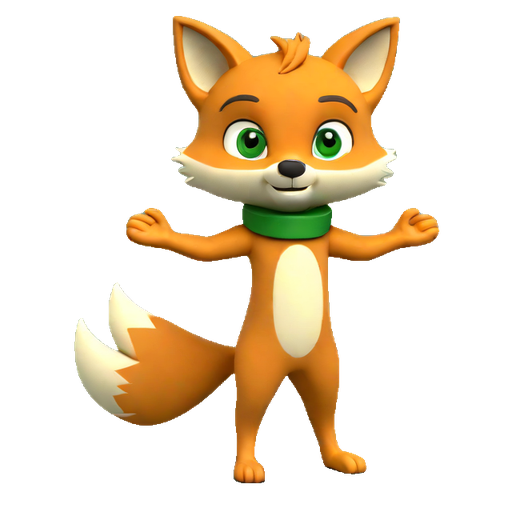
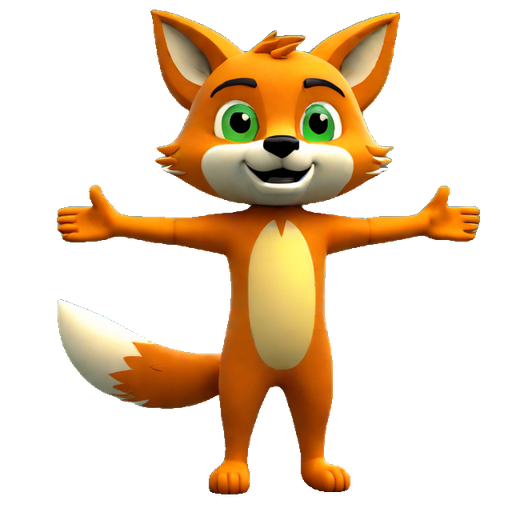
feat: ControlNet OpenPose forces the T-pose in local concepts
- make_pose.py draws a chibi T-pose OpenPose skeleton; generate_concept.py
  runs SDXL Turbo through StableDiffusionXLControlNetPipeline with
  xinsir/controlnet-openpose-sdxl-1.0 (pose-scale 0.8).
- New fox (seed 42) and panda (seed 43) concepts in real T-pose; contact
  sheets kept.

diff --git a/tools/ai3d/make_pose.py b/tools/ai3d/make_pose.py
@@ -1,0 +1,64 @@
+"""Disegna uno scheletro OpenPose (18 keypoint, colori standard) in T-pose
+con proporzioni chibi, da dare a ControlNet come immagine di controllo.
+
+Uso:  tools/ai3d/.venv/Scripts/python tools/ai3d/make_pose.py [--out tools/ai3d/poses/tpose_chibi.png] [--size 640]
+Nessun modello: solo PIL.
+"""
+import argparse
+from pathlib import Path
+
+from PIL import Image, ImageDraw
+
+# Ordine COCO/OpenPose 18: 0 naso, 1 collo, 2 spalla dx, 3 gomito dx, 4 polso dx,
+# 5 spalla sx, 6 gomito sx, 7 polso sx, 8 anca dx, 9 ginocchio dx, 10 caviglia dx,
+# 11 anca sx, 12 ginocchio sx, 13 caviglia sx, 14 occhio dx, 15 occhio sx,
+# 16 orecchio dx, 17 orecchio sx.  "dx" = destra del personaggio = sinistra immagine.
+LIMBS = [(1, 2), (1, 5), (2, 3), (3, 4), (5, 6), (6, 7), (1, 8), (8, 9), (9, 10), (1, 11),
+         (11, 12), (12, 13), (1, 0), (0, 14), (14, 16), (0, 15), (15, 17)]
+COLORS = [(255, 0, 0), (255, 85, 0), (255, 170, 0), (255, 255, 0), (170, 255, 0), (85, 255, 0),
+          (0, 255, 0), (0, 255, 85), (0, 255, 170), (0, 255, 255), (0, 170, 255), (0, 85, 255),
+          (0, 0, 255), (85, 0, 255), (170, 0, 255), (255, 0, 255), (255, 0, 170), (255, 0, 85)]
+
+
+def chibi_tpose(w: int, h: int) -> list:
+    cx = w * 0.5
+    # Testa grande: naso al 22%, collo al 40%, anche al 62%, caviglie al 92%.
+    nose = (cx, h * 0.24)
+    neck = (cx, h * 0.42)
+    sh = h * 0.44
+    arm = w * 0.14
+    hip_y = h * 0.62
+    hip_dx = w * 0.06
+    return [
+        nose, neck,
+        (cx - w * 0.09, sh), (cx - w * 0.09 - arm, sh), (cx - w * 0.09 - 2 * arm, sh),   # braccio dx (T)
+        (cx + w * 0.09, sh), (cx + w * 0.09 + arm, sh), (cx + w * 0.09 + 2 * arm, sh),   # braccio sx (T)
+        (cx - hip_dx, hip_y), (cx - hip_dx, h * 0.77), (cx - hip_dx, h * 0.92),
+        (cx + hip_dx, hip_y), (cx + hip_dx, h * 0.77), (cx + hip_dx, h * 0.92),
+        (cx - w * 0.04, h * 0.21), (cx + w * 0.04, h * 0.21),
+        (cx - w * 0.09, h * 0.23), (cx + w * 0.09, h * 0.23),
+    ]
+
+
+def main() -> None:
+    ap = argparse.ArgumentParser()
+    ap.add_argument("--out", default=str(Path(__file__).resolve().parent / "poses" / "tpose_chibi.png"))
+    ap.add_argument("--size", type=int, default=640)
+    args = ap.parse_args()
+    w = h = args.size
+    pts = chibi_tpose(w, h)
+    img = Image.new("RGB", (w, h), (0, 0, 0))
+    d = ImageDraw.Draw(img)
+    r = max(3, w // 90)
+    for i, (a, b) in enumerate(LIMBS):
+        d.line([pts[a], pts[b]], fill=COLORS[i], width=max(4, w // 60))
+    for i, p in enumerate(pts):
+        d.ellipse([p[0] - r, p[1] - r, p[0] + r, p[1] + r], fill=COLORS[i])
+    out = Path(args.out)
+    out.parent.mkdir(parents=True, exist_ok=True)
+    img.save(out)
+    print("pose ->", out)
+
+
+if __name__ == "__main__":
+    main()

diff --git a/tools/ai3d/generate_concept.py b/tools/ai3d/generate_concept.py
@@ -8,7 +8,9 @@ Uso:
       [--variants 4] [--seed 1] [--steps 4] [--ip-scale 0.55] [--guidance 0.0]
 
 Scrive in assets/characters/_source/<nome>/:
-  <nome>_concept_<seed>.png   una per variante (1024x1024, sfondo grigio)
+  <nome>_concept_<seed>.png   una per variante (sfondo grigio)
+La posa e' imposta da ControlNet OpenPose (`--pose`, scheletro T-pose chibi
+da make_pose.py); `--pose-scale` 0.6-1.0.
   README.md                   prompt e parametri usati
 Poi si sceglie la migliore e la si passa a generate_shape.py.
 
@@ -54,6 +56,9 @@ def main() -> int:
     ap.add_argument("--guidance", type=float, default=0.0)
     ap.add_argument("--ip-scale", type=float, default=0.35)
     ap.add_argument("--size", type=int, default=1024)
+    ap.add_argument("--pose", default=str(ROOT / "poses" / "tpose_chibi.png"),
+                    help="scheletro OpenPose per ControlNet (T-pose); '' = senza ControlNet")
+    ap.add_argument("--pose-scale", type=float, default=0.8)
     ap.add_argument("--out-root", default=str(PROJECT / "assets" / "characters" / "_source"))
     args = ap.parse_args()
 
@@ -65,8 +70,18 @@ def main() -> int:
 
     from diffusers import AutoPipelineForText2Image
     t0 = time.perf_counter()
-    pipe = AutoPipelineForText2Image.from_pretrained(
-        "stabilityai/sdxl-turbo", torch_dtype=dtype, variant="fp16", use_safetensors=True)
+    pose = None
+    if args.pose:
+        from diffusers import ControlNetModel, StableDiffusionXLControlNetPipeline
+        controlnet = ControlNetModel.from_pretrained(
+            "xinsir/controlnet-openpose-sdxl-1.0", torch_dtype=dtype, use_safetensors=True)
+        pipe = StableDiffusionXLControlNetPipeline.from_pretrained(
+            "stabilityai/sdxl-turbo", controlnet=controlnet, torch_dtype=dtype, variant="fp16",
+            use_safetensors=True)
+        pose = Image.open(args.pose).convert("RGB").resize((args.size, args.size), Image.NEAREST)
+    else:
+        pipe = AutoPipelineForText2Image.from_pretrained(
+            "stabilityai/sdxl-turbo", torch_dtype=dtype, variant="fp16", use_safetensors=True)
     style = None
     if args.style:
         from transformers import CLIPVisionModelWithProjection
@@ -94,6 +109,9 @@ def main() -> int:
                       guidance_scale=args.guidance, width=args.size, height=args.size, generator=gen)
         if style is not None:
             kwargs["ip_adapter_image"] = style
+        if pose is not None:
+            kwargs["image"] = pose
+            kwargs["controlnet_conditioning_scale"] = args.pose_scale
         image = pipe(**kwargs).images[0]
         path = out / ("%s_concept_%d.png" % (args.name, seed))
         image.save(path)

diff --git a/assets/characters/_source/panda/README.md b/assets/characters/_source/panda/README.md
@@ -1,15 +1,15 @@
 # panda — concept SDXL Turbo
 
-prompt: `cute cartoon panda mascot, black and white fur, round belly, big friendly eyes, black ear patches, arms spread wide open, one single character, full body T-pose, arms straight out to the sides, front view, symmetrical, chibi big round head, low-poly cartoon 3D render, flat colors, plain gray background`
+prompt: `cute cartoon panda mascot, black and white fur, round white belly, big friendly eyes, black ear patches, arms spread wide open, one single character, full body T-pose, arms straight out to the sides, front view, symmetrical, chibi big round head, low-poly cartoon 3D render, flat colors, plain gray background`
 negative: `two heads, extra limbs, extra arms, extra tails, multiple characters, duplicate, spots, leopard pattern, text, watermark, side view, arms down, cropped, blurry, realistic, photo, scenery, clothes`
 style: `C:\Users\gabri\Progetti\KartWorld\assets\characters\_source\leopard_tpose\leopard_tpose_front.png` (ip-scale 0.25)
 steps 6, guidance 0.0, size 640
 
-* seed 30: `panda_concept_30.png` (11.0 s)
-* seed 31: `panda_concept_31.png` (1.9 s)
-* seed 32: `panda_concept_32.png` (1.7 s)
-* seed 33: `panda_concept_33.png` (1.7 s)
-* seed 34: `panda_concept_34.png` (1.8 s)
-* seed 35: `panda_concept_35.png` (1.7 s)
+* seed 40: `panda_concept_40.png` (34.0 s)
+* seed 41: `panda_concept_41.png` (20.4 s)
+* seed 42: `panda_concept_42.png` (20.3 s)
+* seed 43: `panda_concept_43.png` (20.0 s)
+* seed 44: `panda_concept_44.png` (20.4 s)
+* seed 45: `panda_concept_45.png` (20.1 s)
 
-VRAM picco: 11.23 GB
+VRAM picco: 13.59 GB

diff --git a/tools/README_3D.md b/tools/README_3D.md
@@ -153,8 +153,11 @@ SDXL Turbo fp16 (6,6 GB) + IP-Adapter SDXL ViT-H (3,1 GB) in
 `tools/ai3d/models/hf`. 6 passi, guidance 0, **640 px** (a 1024 Turbo
 duplica teste e arti), `--ip-scale 0.25` (a 0.55 copia le macchie del
 leopardo). Il prompt fisso aggiunge T-pose, vista frontale, sfondo grigio;
-CLIP taglia a 77 token, tenere corta la descrizione. "arms spread wide
-open" nel prompt aiuta la posa. ~2 s a immagine dopo il warm-up, VRAM
+CLIP taglia a 77 token, tenere corta la descrizione. La **T-pose e'
+imposta da ControlNet OpenPose** (`xinsir/controlnet-openpose-sdxl-1.0`,
+2,4 GB) con lo scheletro chibi di `make_pose.py` (`tools/ai3d/poses/
+tpose_chibi.png`, `--pose-scale 0.8`): senza, Turbo ignora la posa nel
+prompt. ~20 s a immagine con ControlNet. ~2 s a immagine dopo il warm-up, VRAM
 ~8 GB. Scelte: volpe seed 34, panda seed 35 (fogli `_sheet_30-35.png`). Scrive
 `assets/characters/_source/<nome>/<nome>_concept_<seed>.png`: scegli la
 migliore e passala a `generate_shape.py`.

diff --git a/assets/characters/_source/fox/README.md b/assets/characters/_source/fox/README.md
@@ -5,11 +5,11 @@ negative: `two heads, extra limbs, extra arms, extra tails, multiple characters,
 style: `C:\Users\gabri\Progetti\KartWorld\assets\characters\_source\leopard_tpose\leopard_tpose_front.png` (ip-scale 0.25)
 steps 6, guidance 0.0, size 640
 
-* seed 30: `fox_concept_30.png` (11.6 s)
-* seed 31: `fox_concept_31.png` (1.9 s)
-* seed 32: `fox_concept_32.png` (1.6 s)
-* seed 33: `fox_concept_33.png` (1.7 s)
-* seed 34: `fox_concept_34.png` (1.7 s)
-* seed 35: `fox_concept_35.png` (1.7 s)
+* seed 40: `fox_concept_40.png` (44.4 s)
+* seed 41: `fox_concept_41.png` (20.5 s)
+* seed 42: `fox_concept_42.png` (20.4 s)
+* seed 43: `fox_concept_43.png` (20.4 s)
+* seed 44: `fox_concept_44.png` (20.5 s)
+* seed 45: `fox_concept_45.png` (20.5 s)
 
-VRAM picco: 11.23 GB
+VRAM picco: 13.59 GB
